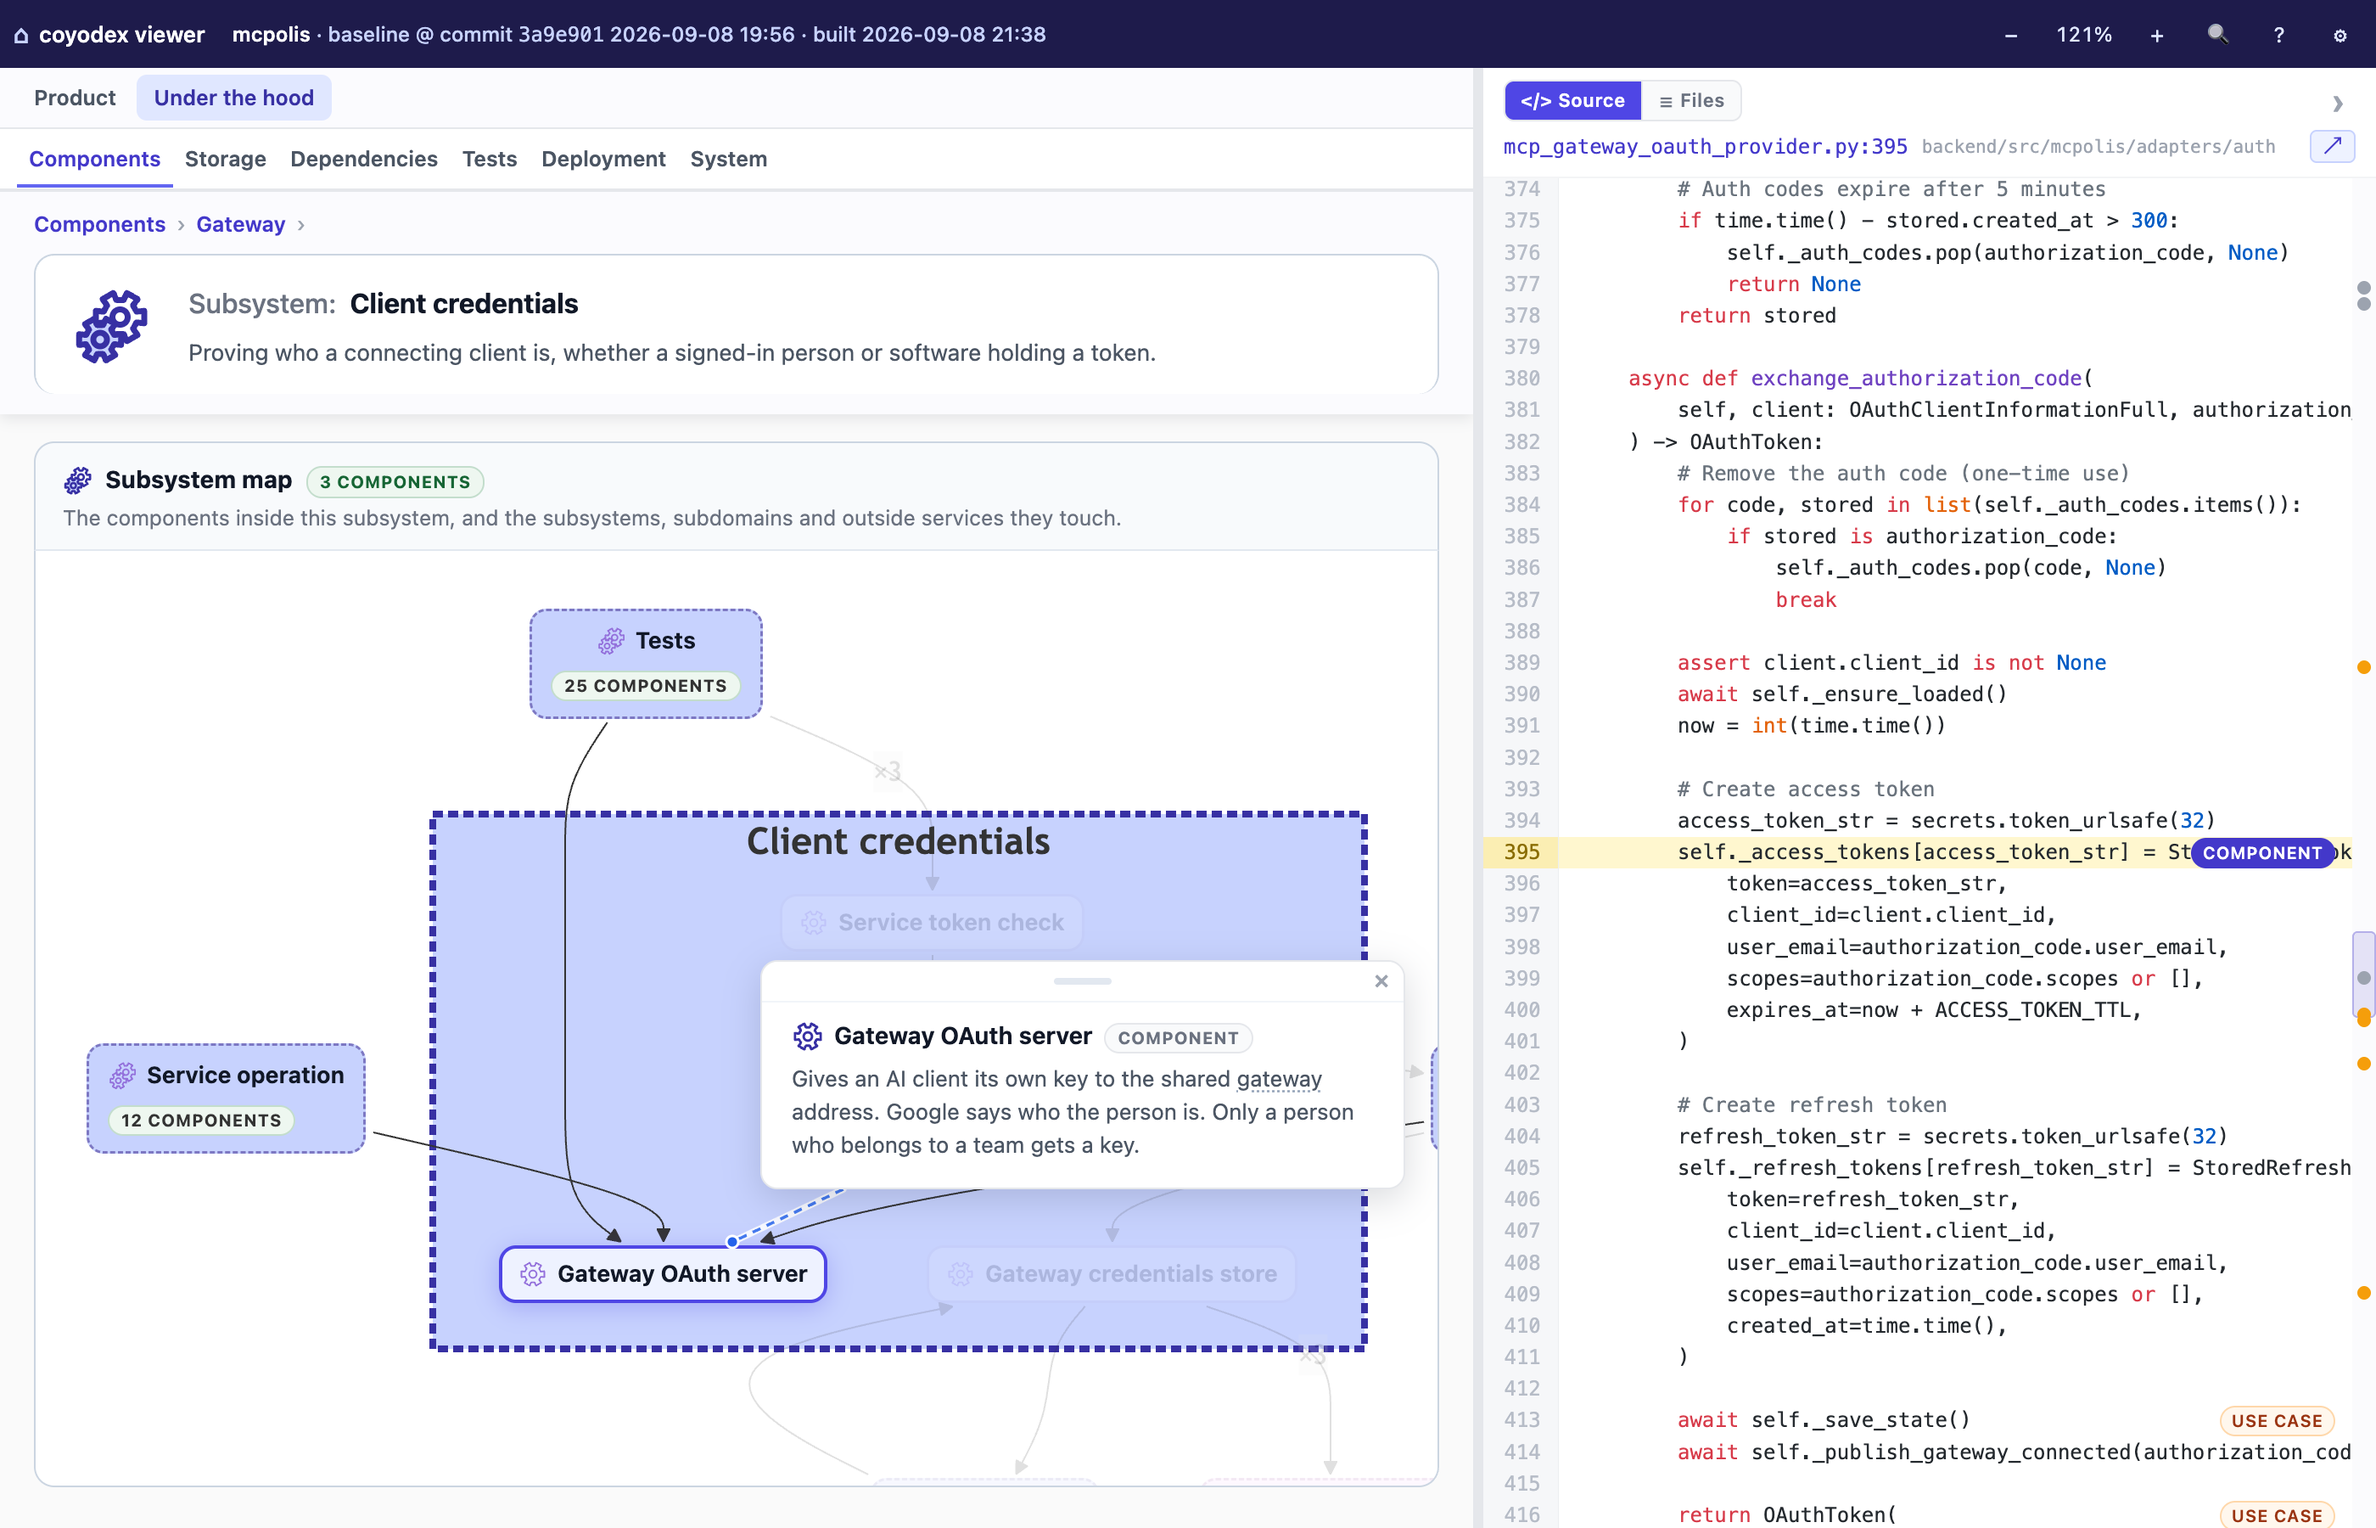
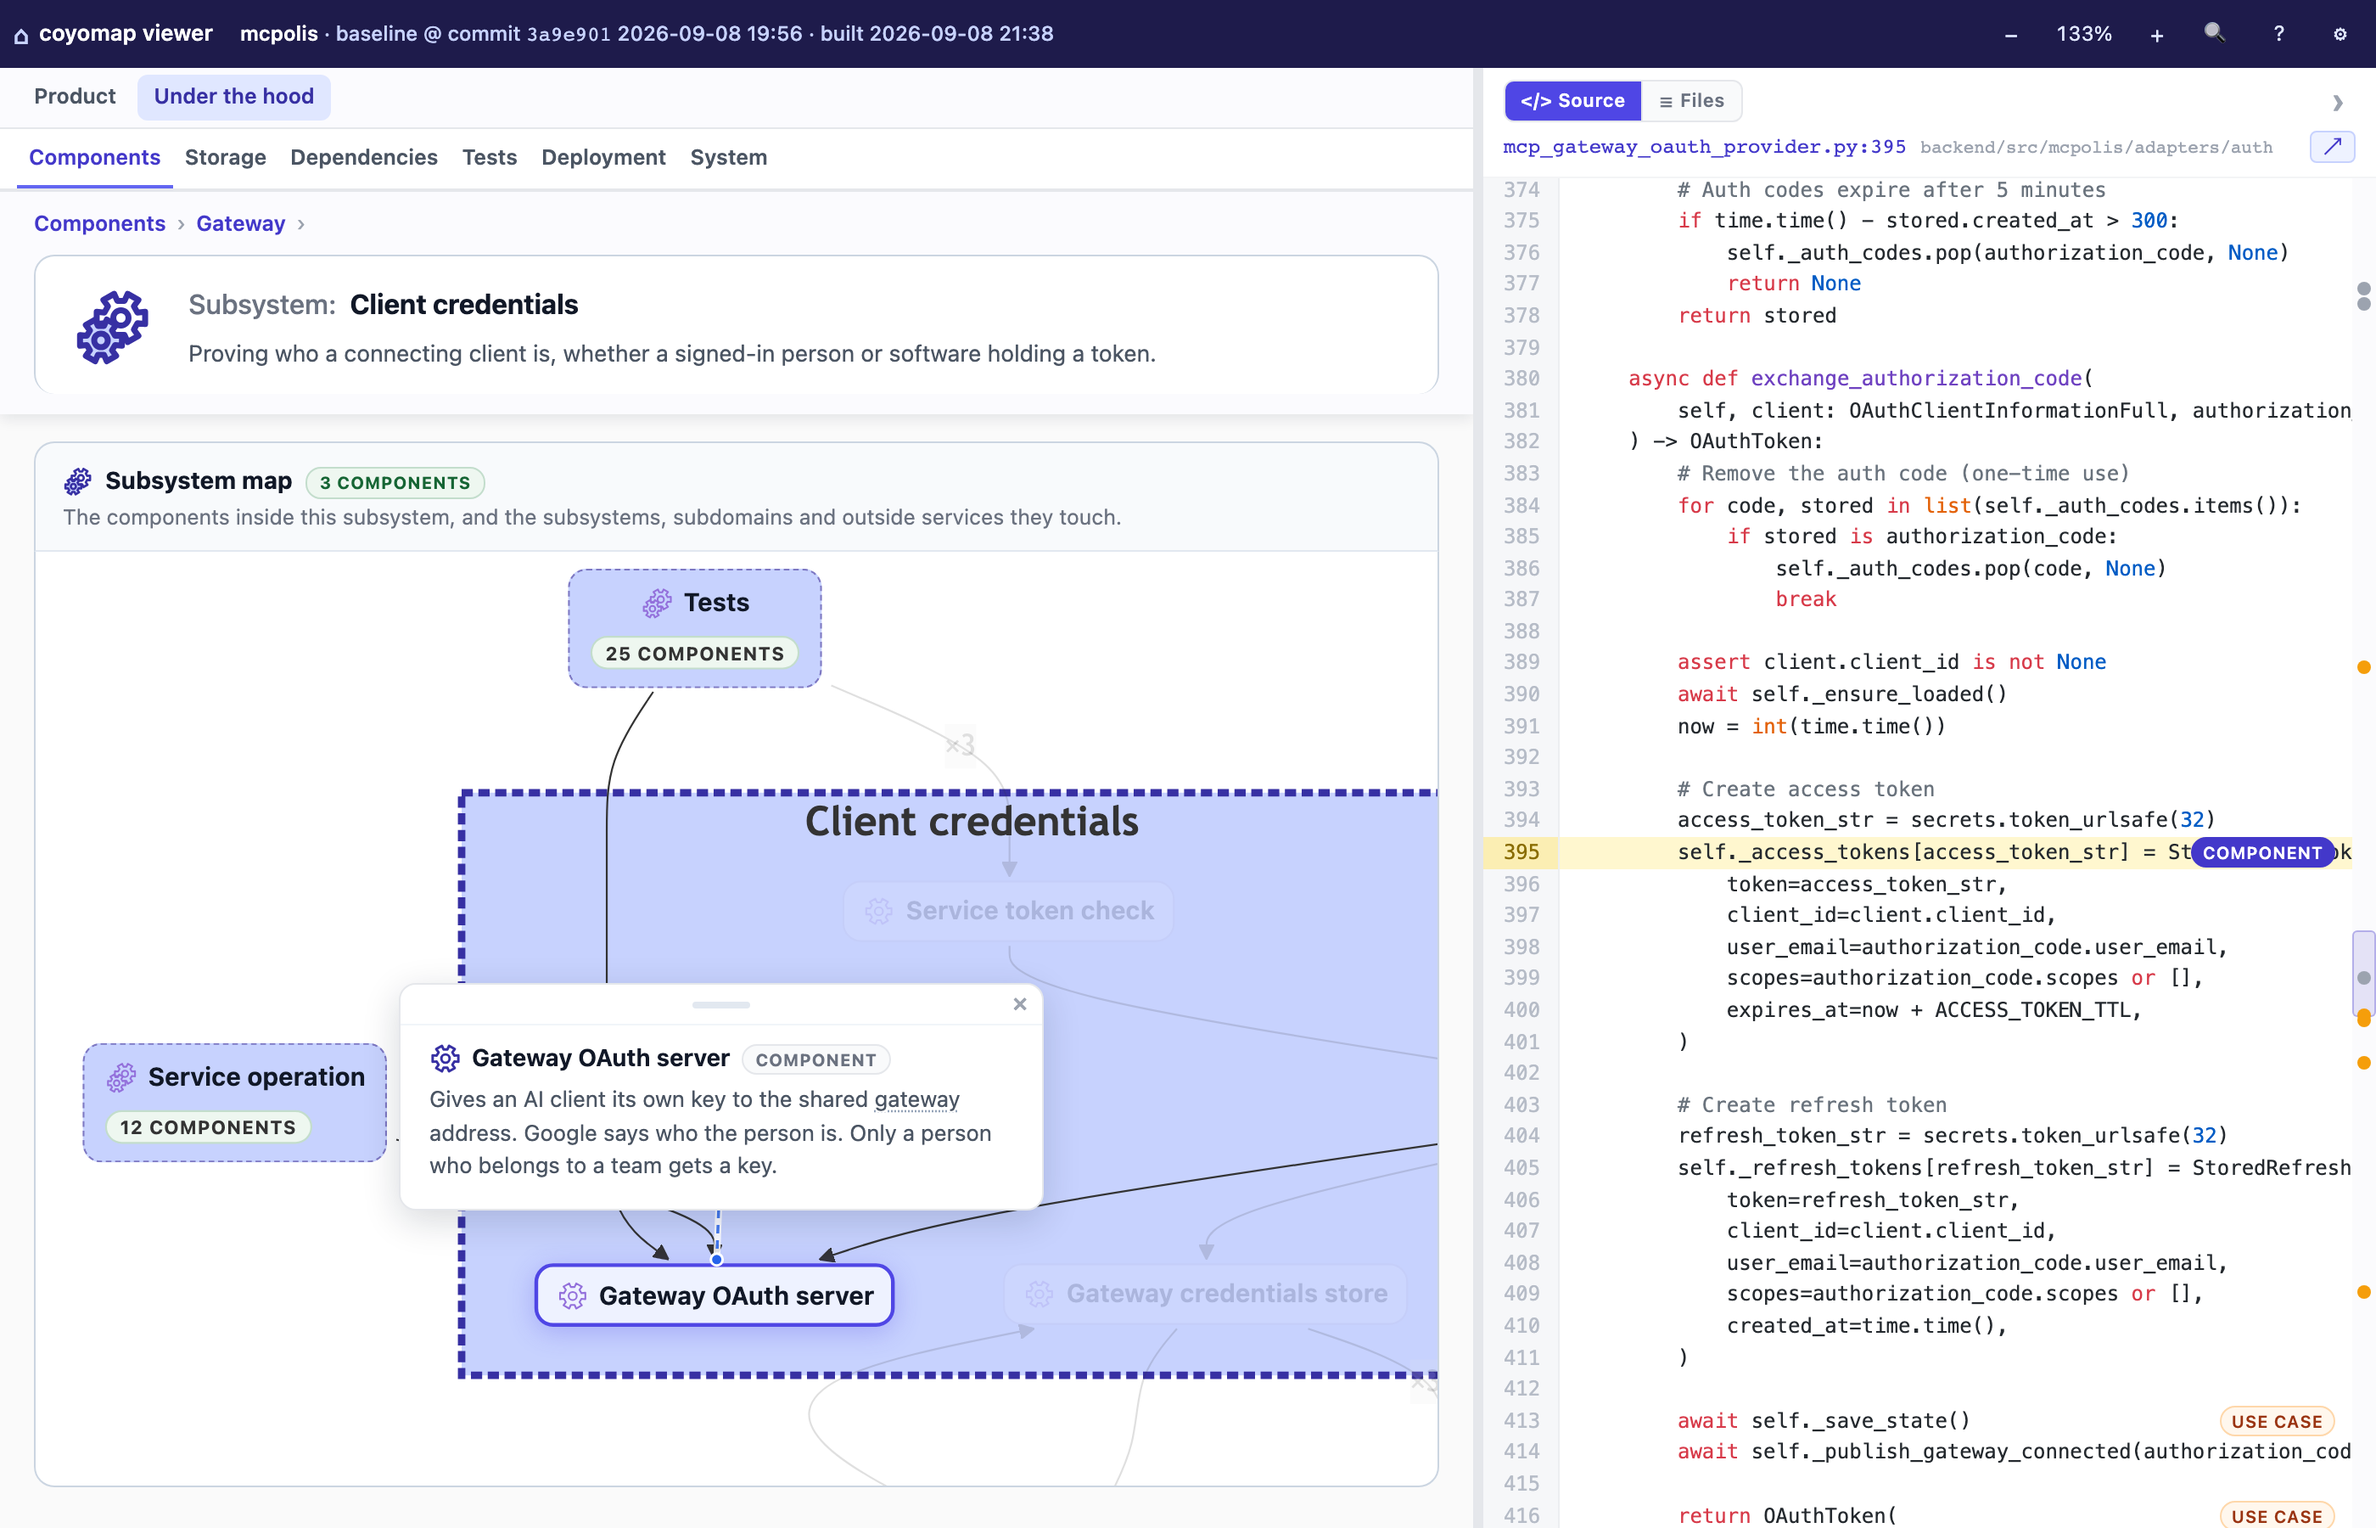
The README screenshots show the coyomap viewer, and the ledger row my inserted lines moved is pinned to its new line

diff --git a/eval/tools/coyomap_eval/live_numbers.py b/eval/tools/coyomap_eval/live_numbers.py
@@ -295,7 +295,7 @@ def _entities_with_a_lifecycle(maps: dict) -> str:
 # live claim, and the report then told a reader to "repair" a sentence that was true.
 
 LEDGER: tuple[Claim, ...] = (
-    Claim(site="tools/coyomap/model.py:884", maps=("coyomap",),
+    Claim(site="tools/coyomap/model.py:899", maps=("coyomap",),
           quote="this repo's own map has 462 anchored expanded steps, 462 distinct "
                 "`(uc, container, n)` keys — and only 337 distinct `(uc, n)` keys.",
           measure=_anchored_expanded_steps,
